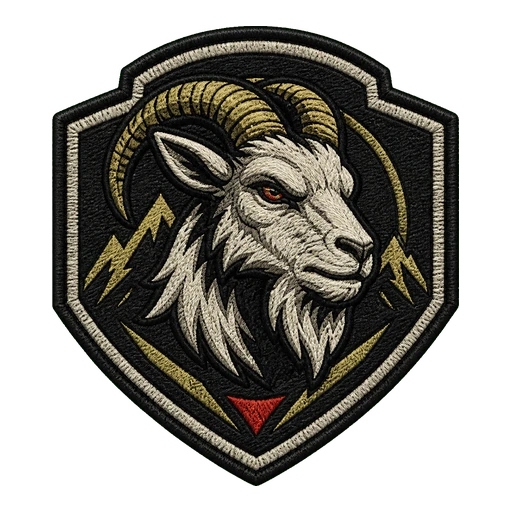
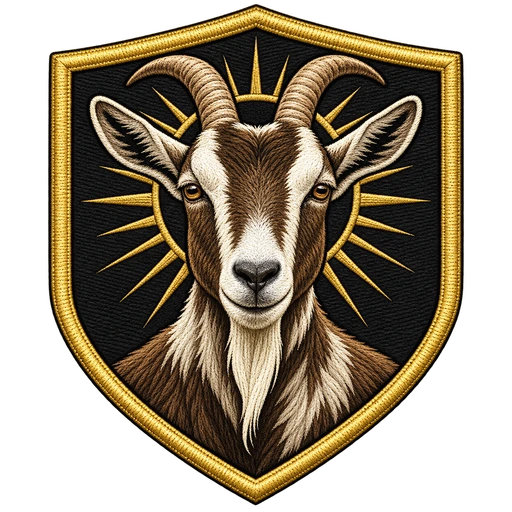
Replace GOAT emblem with prestigious goat design

diff --git a/app/page.tsx b/app/page.tsx
@@ -828,7 +828,7 @@ function Avatar({
         <b className="rank-badge rank-badge-award" title="Primo in classifica">
           <Image
             className="rank-goat-emblem"
-            src={`${basePath}/emblems/goat.webp`}
+            src={`${basePath}/emblems/goat.webp?v=prestige-20261011`}
             alt=""
             width={128}
             height={128}
@@ -1604,7 +1604,7 @@ function BadgeTile({ badge, ghost }: { badge: Badge; ghost: boolean }) {
         {emblem ? (
           <Emblem name={emblem} className="badge-art" />
         ) : (
-          <Image className="badge-art" src={`${basePath}/emblems/${badge.glyph}.webp`} alt="" width={128} height={168} />
+          <Image className="badge-art" src={`${basePath}/emblems/${badge.glyph}.webp${badge.glyph === "goat" ? "?v=prestige-20261011" : ""}`} alt="" width={128} height={168} />
         )}
       </div>
       <aside className="badge-tooltip" role="tooltip">
